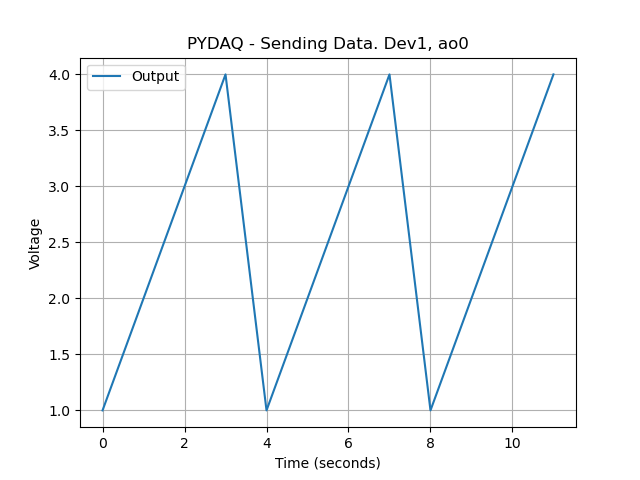
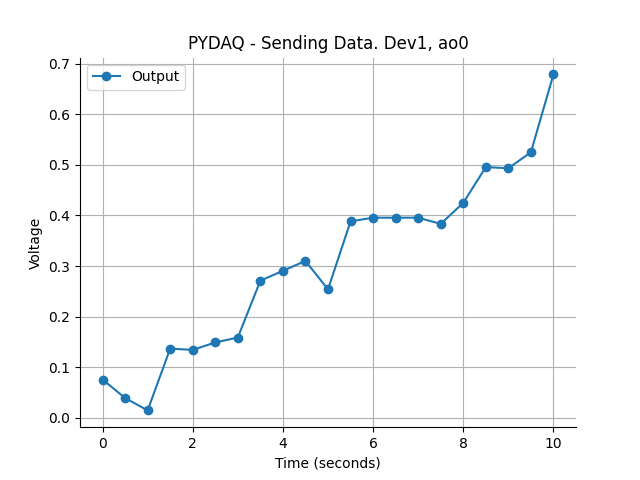
changes on examples and on plot method

diff --git a/pydaq/send_data.py b/pydaq/send_data.py
@@ -30,15 +30,15 @@ class SendData(Base):
     """
 
     def __init__(
-        self,
-        data=None,
-        device="Dev1",
-        channel="ao0",
-        com="COM1",
-        ts=0.5,
-        ao_min=0,
-        ao_max=5,
-        plot=True,
+            self,
+            data=None,
+            device="Dev1",
+            channel="ao0",
+            com="COM1",
+            ts=0.5,
+            ao_min=0,
+            ao_max=5,
+            plot=True,
     ):
 
         super().__init__()
@@ -131,9 +131,9 @@ class SendData(Base):
                     break
 
                 # Updating data values
-                self._update_plot(self.time_var, self.data[0 : k + 1])
+                self._update_plot(self.time_var, self.data[0: k + 1])
 
-            print(f"Iteration: {k} of {self.cycles-1}")
+            print(f"Iteration: {k} of {self.cycles - 1}")
 
             # Getting end time
             et = time.time()
@@ -185,7 +185,7 @@ class SendData(Base):
             self._start_updatable_plot()
 
         time.sleep(2)  # Wait for Arduino and Serial to start up
-
+        print(self.cycles)
         # Main loop, where data will be sent
         for k in range(self.cycles):
 
@@ -208,9 +208,9 @@ class SendData(Base):
                     break
 
                 # Updating data values
-                self._update_plot(self.time_var, self.data[0 : k + 1])
+                self._update_plot(self.time_var, self.data[0: k + 1])
 
-            print(f"Iteration: {k} of {self.cycles-1}")
+            print(f"Iteration: {k} of {self.cycles - 1}")
 
             # Getting end time
             et = time.time()

diff --git a/pydaq/guis/senddata_arduino_widget.py b/pydaq/guis/senddata_arduino_widget.py
@@ -62,10 +62,10 @@ class SendData_Arduino_Widget(QWidget, Ui_Arduino_SendData_W):
             s.time_var, s.data = [], []
 
             # Reading data from defined path and rearranjing it
-            self.path = self.path_line_edit.text()
-            self.data = np.loadtxt(self.path)
-            self.data = list(self.data)
-            self.data = [5 if i > 2.5 else 0 for i in self.data]
+            s.path = self.path_line_edit.text()
+            s.data = np.loadtxt(s.path)
+            s.data = list(s.data)
+            s.data = [5 if i > 2.5 else 0 for i in s.data]
 
             # Getting the remaining values from the GUI
             s.com_port = serial.tools.list_ports.comports()[

diff --git a/pydaq/utils/base.py b/pydaq/utils/base.py
@@ -89,10 +89,10 @@ class Base:
         plt.grid()
         if number_of_inputs > 1:
             for k in range(number_of_inputs):
-                self.ax.scatter(x_value[k], y_value[k])
+                self.ax.plot(x_value[k], y_value[k], "o-")
                 plt.legend(self.legend)
         else:
-            self.ax.scatter(x_value, y_value)
+            self.ax.plot(x_value, y_value, "o-")
             plt.legend(self.legend)
         self.fig.canvas.draw()
         self.fig.canvas.flush_events()

diff --git a/docs/step_response_arduino.md b/docs/step_response_arduino.md
@@ -25,8 +25,8 @@ PydaqGui()
 ```
 
 After this command, the graphical user interface screen will show up, where the
-user should go to the Step Response tab, to be able to define parameters and start
-to acquire data.
+user should select the Arduino option and go to the Step Response tab,
+to be able to define parameters and start to acquire data.
 
 ![](img/step_response_arduino_gui.png)
 

diff --git a/docs/send_data_arduino.md b/docs/send_data_arduino.md
@@ -24,7 +24,8 @@ PydaqGui()
 ```
 
 After this command, the graphical user interface screen will show up, where the
-user should go to the Send Data tab, to be able to define parameters and start to send the data.
+user should select the Arduino option and go to the Send Data tab,
+to be able to define parameters and start to send the data.
 
 ![](img/send_data_arduino_gui.png)
 

diff --git a/docs/get_data_arduino.md b/docs/get_data_arduino.md
@@ -29,7 +29,8 @@ PydaqGui()
 ```
 
 After this command, the following screen will show up, where the
-user is able to define parameters and start to acquire data.
+user should select the Arduino option and go to the Get Data tab,
+to be able to define parameters and start to acquire data.
 
 ![](img/get_data_arduino.png)
 
